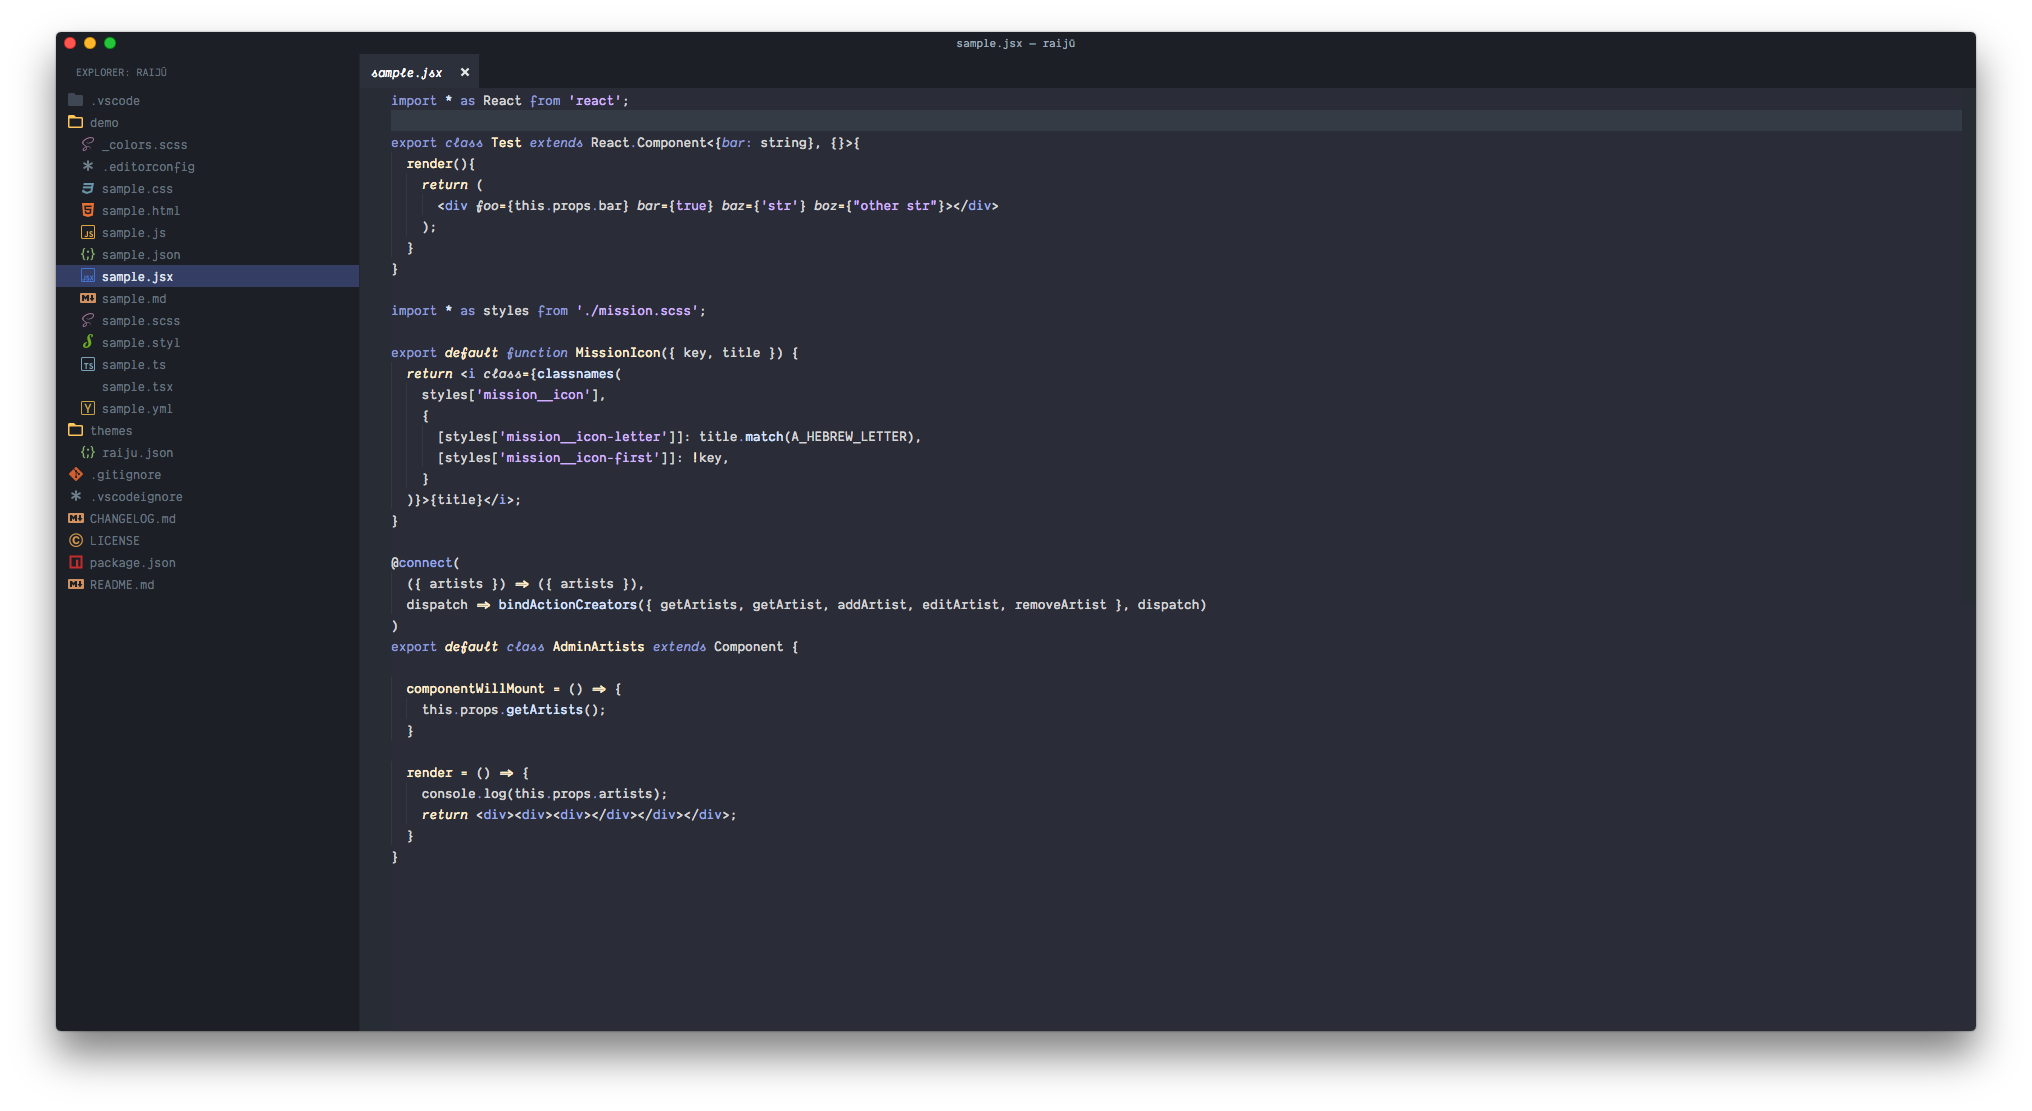
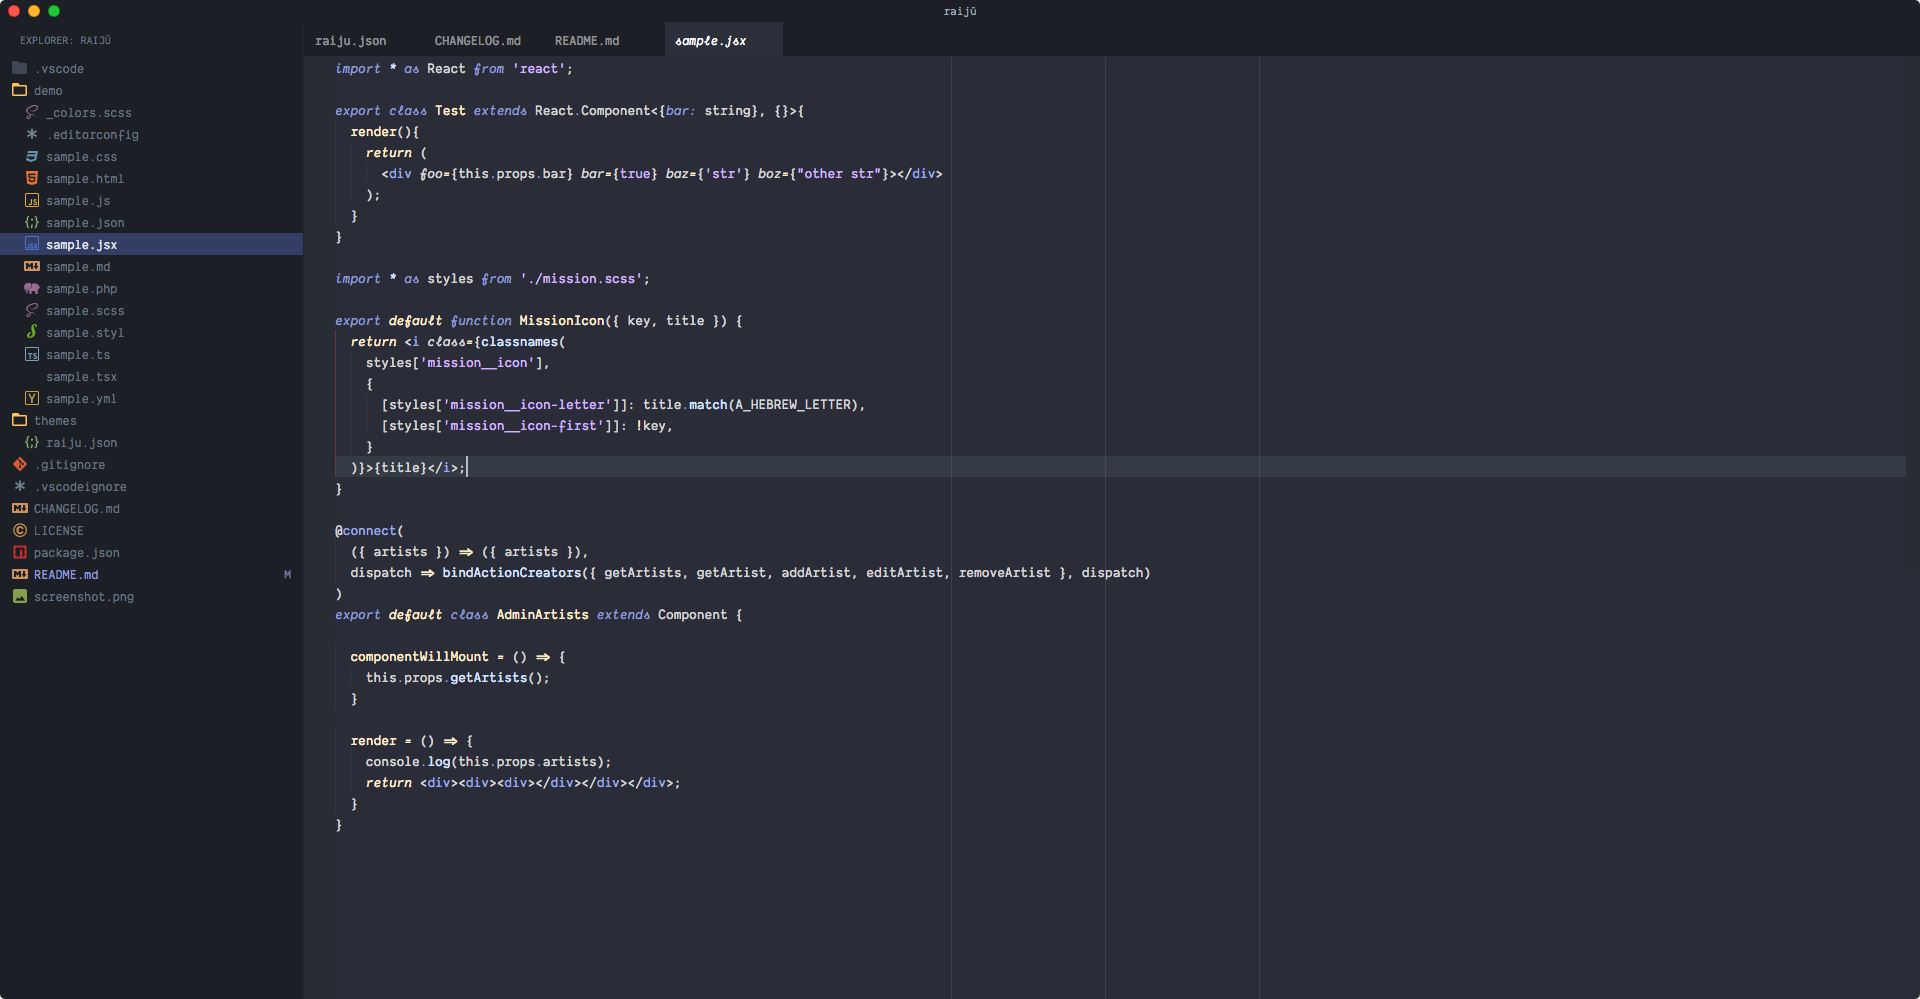
Updated REAMDE and screenshot

Changed region(s): [[0.0, 0.0, 1.0, 1.0], [0.1562, 0.2793, 0.5938, 0.8068]]

diff --git a/README.md b/README.md
@@ -3,13 +3,30 @@
 [![Version](https://vsmarketplacebadge.apphb.com/version/TobiasTimm.raiju.svg)](https://marketplace.visualstudio.com/items?itemName=TobiasTimm.raiju)
 [![Downloads](https://img.shields.io/vscode-marketplace/d/TobiasTimm.raiju.svg)](https://marketplace.visualstudio.com/items?itemName=TobiasTimm.raiju)
 
-**Raijū** is a vscode theme inspired by [Ariake Dark](https://marketplace.visualstudio.com/items?itemName=wart.ariake-dark) and [Subliminal](https://marketplace.visualstudio.com/items?itemName=gaearon.subliminal).
+**Raijū** is a Visual Studio Code theme inspired by [Ariake Dark](https://marketplace.visualstudio.com/items?itemName=wart.ariake-dark) and [Subliminal](https://marketplace.visualstudio.com/items?itemName=gaearon.subliminal).
 
-**Note: Pull requests for additional languages are welcome.**
+See the [CHANGELOG](CHANGELOG.md) for the latest changes.
 
 ![Screenshot](screenshot.png)
 
 _Icon theme: [ayu](https://marketplace.visualstudio.com/items?itemName=teabyii.ayu), Font: [Dank Mono](https://dank.sh)_
+
+## Usage
+
+Select the theme and you are ready to go!
+
+## Installation
+
+1.  Open Extensions sidebar panel in VS Code. View → Extensions
+1.  Search for `Raijū`
+1.  Click Install
+1.  Click Reload
+1.  File > Preferences > Color Theme > Raijū
+1.  Optional: Use the settings below for a better and more minimalistic experience
+
+## Syntax Highlighting
+
+For better Syntax Highlighting use [Sublime Babel](https://marketplace.visualstudio.com/items?itemName=joshpeng.sublime-babel-vscode).
 
 ## Minimalistic Look & Feel
 
@@ -37,9 +54,9 @@ For a more minimalistic look I recommend these settings
 }
 ```
 
-Since I have turned off features like the default matching brackets highlighting, I recommend you to install [this extension](https://marketplace.visualstudio.com/items?itemName=rafamel.subtle-brackets).
+Since I have turned off features like the default matching brackets highlighting, I recommend you to install [Subtle Match Brackets](https://marketplace.visualstudio.com/items?itemName=rafamel.subtle-brackets).
 
-To remove the icon buttons on panels you need to install [this extension](https://marketplace.visualstudio.com/items?itemName=be5invis.vscode-custom-css) with the following custom CSS:
+To remove the icon buttons on panels you need to install [Custom CSS and JS Loader](https://marketplace.visualstudio.com/items?itemName=be5invis.vscode-custom-css) with the following custom CSS:
 
 ```css
 .title-actions
@@ -74,6 +91,16 @@ To use a special font for the UI you need to add addtional custom css rules
   top: 17px !important;
 }
 ```
+
+## Feedback / Issues
+
+Do you like the theme? Don't hesitate to share your thoughts!
+
+Let me know if you'd like to see any specific synytax added by creating a Github issue.
+
+## Author
+
+[Tobias Timm](https://twitter.com/TbsTimm)
 
 ## License
 
